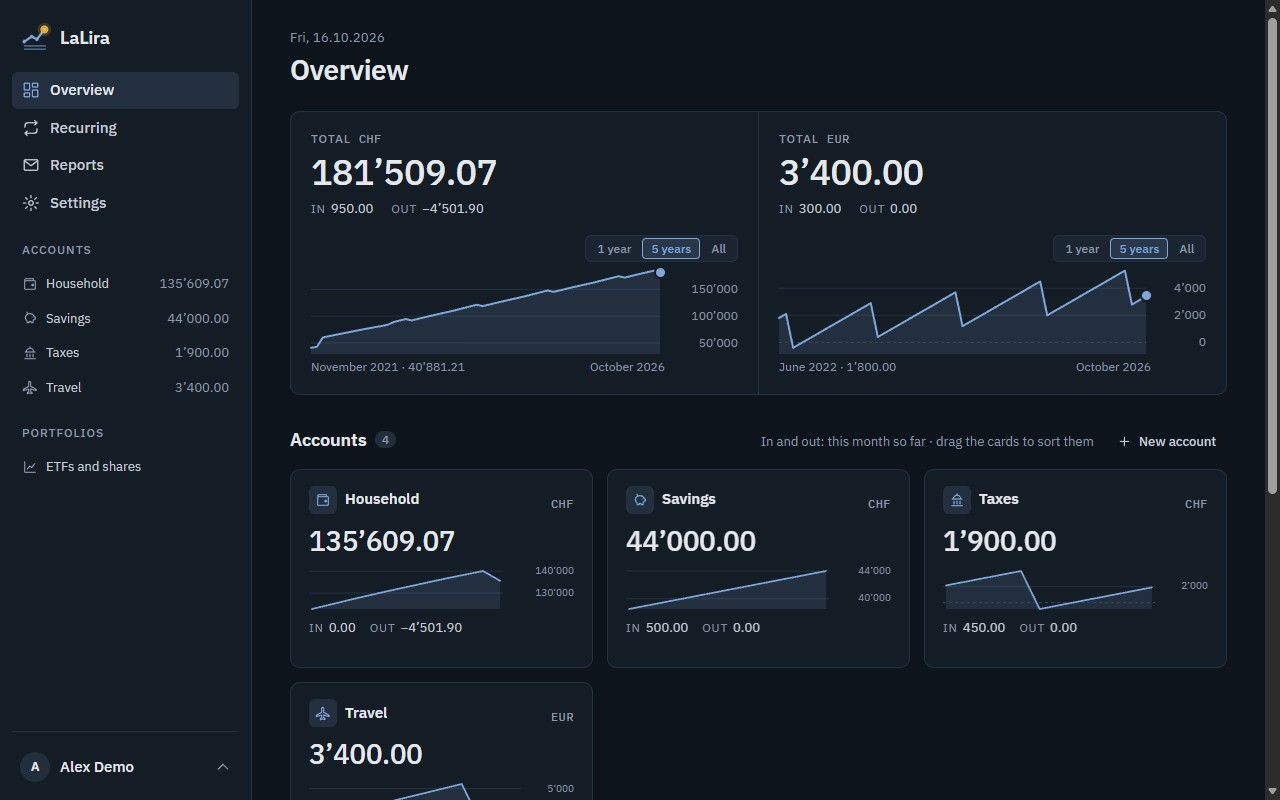
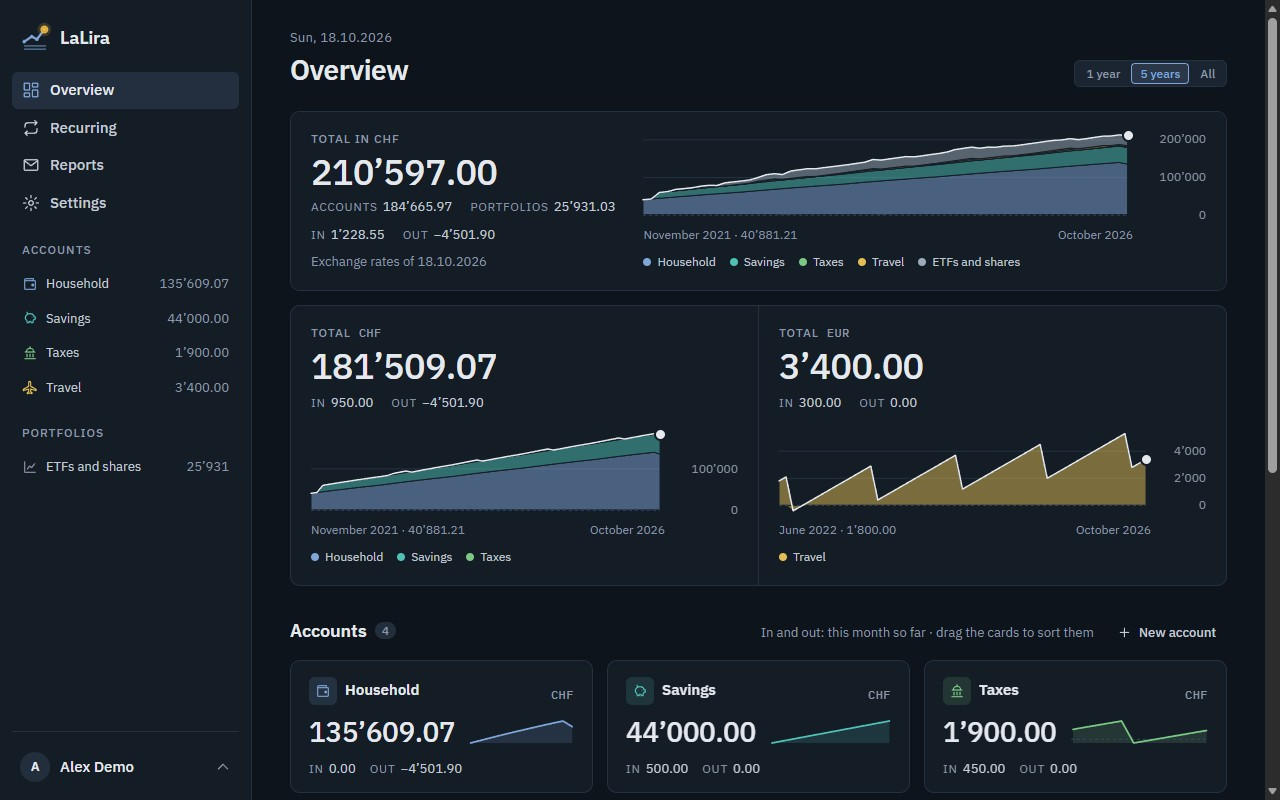
Release 1.5.0
Release notes, README feature lines and the overview and portfolio
screenshots (invented demo data) for colors, main currency, price
alerts and portfolio history.

diff --git a/README.md b/README.md
@@ -4,19 +4,20 @@ Simple, self-hosted bookkeeping for your accounts. Each account has a currency, 
 
 ![The sign-in page](docs/images/lalira-signin.jpg)
 
-![The overview: totals per currency with their balance charts, every account with its balance and this month's money in and out, and the recurring bookings coming up](docs/images/lalira-overview.jpg)
+![The overview: everything in CHF and the totals per currency, each chart showing every account as a band in its color, and every account with its balance and this month's money in and out](docs/images/lalira-overview.jpg)
 
 ![An account: the entry row for new positions, and the list with its running balance](docs/images/lalira-account.jpg)
 
-![A portfolio: value and gain per currency, the entry row for a purchase, and the securities held and sold](docs/images/lalira-portfolio.jpg)
+![A portfolio: value and gain per currency with the value over time against what was paid, the gain per year, and the entry row for a purchase](docs/images/lalira-portfolio.jpg)
 
 - **Accounts and positions**: a date, a description and an amount (a minus means money out), typed straight into the list (dates also as digits only, like 29012016), with an optional note. The current year shows every position; older years show one 31.12. line that opens on click, or all at once, or are hidden with "Only current year".
-- **Balance charts and search**: the balance of each account and of each currency total over 1 year, 5 years or everything, with grid lines and amounts, and a search through an account's descriptions, notes, amounts and dates.
+- **Balance charts and search**: the balance of each account and of each currency total over 1 year, 5 years or everything, with grid lines and amounts, and a search through an account's descriptions, notes, amounts and dates. Every account has a color; the total charts show each account as a band in it. Click a name in the legend to hide it, and group small accounts under "Others".
+- **Main currency**: pick one in Settings to see everything converted into it, with daily exchange rates from [Frankfurter](https://frankfurter.dev) (free, no key). Amounts stay stored in their own currency.
 - **Your order**: sort the accounts on the overview by dragging a card or with the small arrows in its corners; the sidebar and every list follow.
 - **IBAN**: optional per account, checked for typos, with a copy button.
-- **Portfolios**: one row per purchase (date, quantity, price per share), sales in full or in part, and value and gain or loss per currency. Current prices come once a day from [EODHD](https://eodhd.com) with your own free API key, which also lets you search for a security by name or ISIN to fill in the row. Swiss ISINs fill in the Valor.
+- **Portfolios**: one row per purchase (date, quantity, price per share), sales in full or in part, and value and gain or loss per currency. Current prices come once a day from [EODHD](https://eodhd.com) with your own free API key, which also lets you search for a security by name or ISIN to fill in the row. Swiss ISINs fill in the Valor. A chart shows the value over time against what you paid, with the gain per year (the free key reaches a year back), and price alerts email you when a share crosses a limit.
 - **Recurring positions**: weekly, monthly, quarterly or yearly, with placeholders such as `Deposit {month}` → "Deposit October". Missed dates are booked with their own date as soon as the app is back.
-- **Email reports**: monthly, quarterly or yearly: money in and out and every booking, for the accounts you include.
+- **Email reports**: monthly, quarterly or yearly: money in and out per account (and in total in your main currency), for the accounts you include.
 - **CSV import and export**, with a preview and duplicate detection.
 - **Backups**: a daily automatic backup, downloads with an optional password, and restore from the browser. Each backup also holds every account and portfolio as a CSV file, and a safety backup is made before every update.
 - **English and German**, with separate region formats (for example English with Swiss formats: 12’480.00, 14.10.2026).

diff --git a/CHANGELOG.md b/CHANGELOG.md
@@ -1,5 +1,16 @@
 # Release notes
 
+## 1.5.0 - 2026-10-18
+
+### New
+- Account colors: each account has its own color, and the charts on the overview show every account as a band in it.
+- A main currency: pick one in Settings to see everything converted into it, with daily exchange rates. A portfolio in several currencies can show its totals once in it.
+- Price alerts for the shares in a portfolio, by email and on the overview.
+- A portfolio's value over time: a chart with what you paid for it, and the gain per year.
+
+### Improved
+- Minor fixes and updates.
+
 ## 1.4.0 - 2026-10-16
 
 ### New
